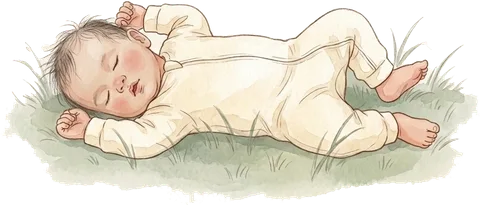
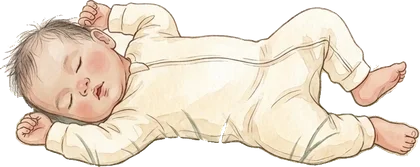
feat: kid runs after a bee by day and sleeps on the hill at night
Day: a 6-frame run cycle carries him back and forth across the meadow,
clear of the timer and the "Sleep" strip, with a bee just ahead that
turns with him. Night: he lies on the painted hill itself (cut off his
grass patch), a little smaller so he stays clear of "Wake up". Both hold
still with reduced motion.

diff --git a/src/components/StorybookArt.tsx b/src/components/StorybookArt.tsx
@@ -61,15 +61,13 @@ function Layer({ src, className, style }: { src: string; className?: string; sty
 }
 
 const DAY_BEES = [
-  { id: "a", left: "50%", top: "56%", width: "5.6%", duration: "12s", delay: "0s", rockDelay: "0s" },
-  { id: "b", left: "66%", top: "34%", width: "4.2%", duration: "15s", delay: "-6s", rockDelay: "-1.1s" },
-  { id: "c", left: "55%", top: "75%", width: "3.6%", duration: "10s", delay: "-3s", rockDelay: "-1.9s" },
+  { id: "b", left: "66%", top: "30%", width: "4.2%", duration: "15s", delay: "-6s", rockDelay: "-1.1s" },
 ];
 
 /**
  * Awake: the painted morning meadow fills the toggle. The sun glows in open
- * sky (inside `.sb-sun-arc`, so it can set), clouds drift at different speeds
- * and a bee loops low with flapping wings.
+ * sky (inside `.sb-sun-arc`, so it can set), clouds drift at different speeds,
+ * a bee wanders high, and he runs across the meadow chasing another.
  */
 export function StorybookDay({ className = "" }: { className?: string }) {
   return (
@@ -95,6 +93,18 @@ export function StorybookDay({ className = "" }: { className?: string }) {
           </span>
         </span>
       ))}
+      {/* He runs back and forth across the meadow, clear of the timer and the
+          "Sleep" strip, chasing a bee that stays just ahead of him. The run is
+          a 6-frame flip-book (kid-run.webp); travel and turn share one duration
+          so he turns exactly at each end, and the bee turns with him. */}
+      <span className="sb-pos sb-kid-track" style={{ left: "max(50.5%, 11rem)", width: "calc(74% - max(50.5%, 11rem))", bottom: "6%", height: "50%" }}>
+        <span className="sb-kid-runner">
+          <span className="sb-kid-face">
+            <span className="sb-kid-frame"><Layer src="kid-run.webp" className="sb-kid-strip" /></span>
+            <span className="sb-kid-bee"><span className="sb-bee-rock"><Layer src="bee-up.webp" /></span></span>
+          </span>
+        </span>
+      </span>
     </span>
   );
 }
@@ -128,12 +138,11 @@ export function StorybookNight({ className = "" }: { className?: string }) {
         </span>
       ))}
       <span className="sb-pos sb-cloud-drift sb-cloud-sleepy" style={{ left: "34%", top: "66%", width: "14%" }}><Layer src="sleepy-cloud.webp" /></span>
-      {/* He sleeps in the grass on the hill, below the moon. His left edge stays
+      {/* He sleeps on the painted hill, below the moon. His left edge stays
           clear of the timer's frosted backing (about 11rem wide whatever the
           toggle width), and on narrow phones he shrinks rather than running into
-          the "Wake up" strip. The ragged foot of his grass patch tucks under the
-          bottom edge. */}
-      <span className="sb-pos" style={{ left: "max(50.5%, 11rem)", bottom: "-9%", width: "min(34%, calc(86% - max(50.5%, 11rem)))" }}>
+          the "Wake up" strip. */}
+      <span className="sb-pos" style={{ left: "max(50.5%, 11rem)", bottom: "4%", width: "min(27%, calc(78% - max(50.5%, 11rem)))" }}>
         <Layer src="kid-sleep.webp" className="sb-kid-breathe" />
         <span className="sb-zz sb-zz-1">z</span>
         <span className="sb-zz sb-zz-2">z</span>

diff --git a/src/app/globals.css b/src/app/globals.css
@@ -938,6 +938,34 @@ body {
 }
 .sb-kid-breathe ~ .sb-zz-1 { left: 26%; top: -2%; }
 .sb-kid-breathe ~ .sb-zz-2 { left: 18%; top: -16%; }
+/* Day runner: the runner moves along the track (left 0 -> 100%, pulled back by
+   its own width so it stops at the far end) and turns at each end. The frame
+   window shows one cell of the 6-cell strip; the strip steps through them. */
+.sb-kid-runner {
+  position: absolute;
+  bottom: 0;
+  height: 100%;
+  aspect-ratio: 242 / 349;
+  animation: sb-kid-travel 5.2s linear infinite;
+}
+.sb-kid-face {
+  position: relative;
+  display: block;
+  height: 100%;
+  animation: sb-kid-turn 5.2s steps(1) infinite;
+}
+.sb-kid-frame { display: block; height: 100%; overflow: hidden; }
+.sb-kid-strip { width: 600%; max-width: none; animation: sb-kid-run 0.6s steps(6) infinite; }
+/* The bee flies just ahead and a little above him; its painted pose faces left. */
+.sb-kid-bee {
+  position: absolute;
+  left: 112%;
+  top: -6%;
+  width: 52%;
+  display: block;
+  transform: scaleX(-1);
+}
+.sb-kid-bee .sb-bee-rock { animation: sb-bee-rock 0.9s ease-in-out infinite alternate; }
 
 .sb-home-wrap .sb-home { width: 100%; height: 100%; }
 .sb-smoke-rise { animation: sb-smoke-curl 5s ease-out infinite; transform-origin: 50% 100%; }
@@ -986,13 +1014,25 @@ html:not([data-care-mode="sick"])[data-theme="dark"] .sb-smoke-rise { filter: no
   0%, 100% { transform: scale(1, 1); }
   45% { transform: scale(1.012, 1.03); }
 }
+@keyframes sb-kid-travel {
+  0%, 100% { left: 0%; transform: translateX(0); }
+  50% { left: 100%; transform: translateX(-100%); }
+}
+@keyframes sb-kid-turn {
+  0% { transform: scaleX(1); }
+  50% { transform: scaleX(-1); }
+}
+@keyframes sb-kid-run {
+  to { transform: translateX(-100%); }
+}
 @keyframes sb-smoke-curl {
   0% { opacity: 0; transform: translateY(6px) scale(0.7); }
   30% { opacity: 0.85; }
   100% { opacity: 0; transform: translate(4px, -8px) scale(1.15); }
 }
 @media (prefers-reduced-motion: reduce) {
-  .sb-sun-glow, .sb-cloud-drift, .sb-bee-path, .sb-bee-face, .sb-bee-rock, .sb-moon-rock, .sb-star-twinkle, .sb-smoke-rise, .sb-kid-breathe { animation: none; }
+  .sb-sun-glow, .sb-cloud-drift, .sb-bee-path, .sb-bee-face, .sb-bee-rock, .sb-moon-rock, .sb-star-twinkle, .sb-smoke-rise, .sb-kid-breathe, .sb-kid-runner, .sb-kid-face, .sb-kid-strip, .sb-kid-bee .sb-bee-rock { animation: none; }
+  .sb-kid-runner { left: 20%; }
   .sb-zz { animation: none; opacity: 0.7; }
   .sb-smoke-rise { opacity: 0.7; }
 }
